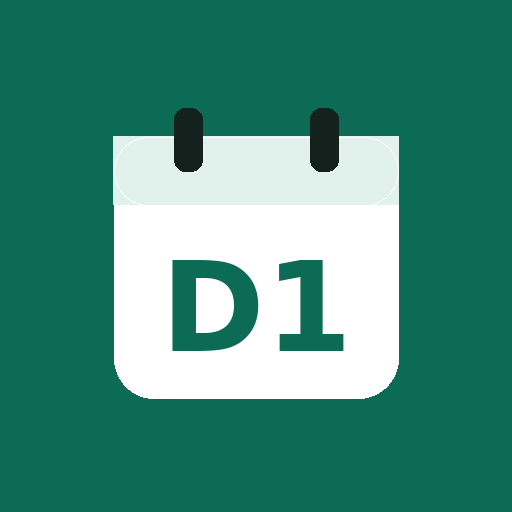
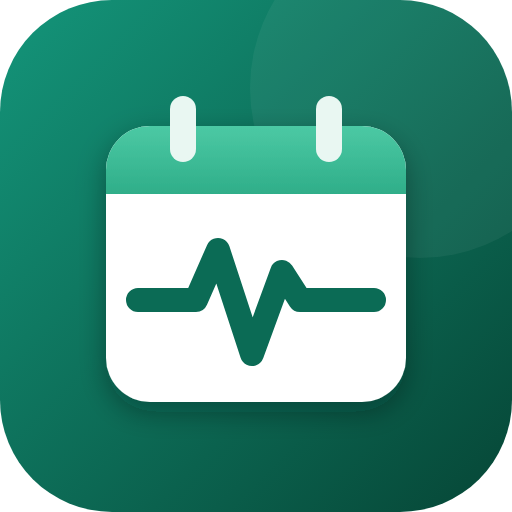
Harita varsayılan görünüm her açılışta, yeni ikon ve menü, kaynak (i) düğmesi kaldırıldı
- Harita sekmesi her açıldığında fotoğraftaki açı/uzaklığa döner (telefon, tablet, bilgisayar için yerleşkeye otomatik sığdırma)
- Dönemden bağımsız yeni ikon (takvim + nabız çizgisi), maskable ve SVG favicon; manifest adı genelleştirildi
- Menü: logolu başlık, öğrencinin dönemi, SVG simgeler, bölümler/araçlar, iletişim bağlantısı
- Üst başlığa logo; takvim dışa aktarımında dönem adı

Claude-Session: https://claude.ai/code/session_01L37E6WDiLPtmfnTNaGb7ty

diff --git a/index.html b/index.html
@@ -3,13 +3,14 @@
 <head>
 <meta charset="utf-8">
 <meta name="viewport" content="width=device-width, initial-scale=1">
-<title>Dönem 1 Programım</title>
+<title>Programım · İstanbul Tıp</title>
 <meta name="theme-color" content="#0b6b55">
 <meta name="apple-mobile-web-app-capable" content="yes">
 <meta name="apple-mobile-web-app-title" content="Programım">
 <link rel="manifest" href="manifest.json">
 <link rel="apple-touch-icon" href="icon-180.png">
-<link rel="icon" href="icon-180.png">
+<link rel="icon" href="icon.svg" type="image/svg+xml">
+<link rel="icon" href="icon-180.png" sizes="180x180" type="image/png">
 <link rel="preconnect" href="https://fonts.googleapis.com">
 <link rel="preconnect" href="https://fonts.gstatic.com" crossorigin>
 <link href="https://fonts.googleapis.com/css2?family=Bricolage+Grotesque:opsz,wght@12..96,600;12..96,700&family=IBM+Plex+Sans:wght@400;500;600&family=IBM+Plex+Mono:wght@500&family=Share+Tech+Mono&family=Doto:wght@800&display=swap" rel="stylesheet">
@@ -363,22 +364,39 @@ details.fold > summary:hover{background:color-mix(in srgb, currentColor 5%, tran
 /* ---------- header menu + drawer ---------- */
 .top{display:grid;grid-template-columns:1fr auto;align-items:start;gap:10px 12px}
 .top .chips{grid-column:1 / -1}
+.brand{display:flex;align-items:center;gap:11px}
+@media (min-width:1000px){body:not(.guest) .brand small{white-space:nowrap}}
+@media (min-width:700px) and (max-width:999px){body:not(.guest) .blogo{display:none}}
+.blogo{width:40px;height:40px;border-radius:11px;flex:none;box-shadow:0 3px 10px rgba(6,70,54,.22)}
+@media (max-width:360px){.blogo{width:34px;height:34px;border-radius:9px}}
 .menubtn{position:relative;width:46px;height:46px;border-radius:13px;border:1px solid var(--line);background:var(--surface);display:grid;place-items:center;color:var(--ink);flex:none}
 .menubtn:hover{border-color:var(--accent)}
 .menubtn[data-live="1"]::after{content:"";position:absolute;top:7px;right:7px;width:10px;height:10px;border-radius:50%;background:var(--accent);box-shadow:0 0 0 2px var(--surface)}
 .drawer-scrim{position:fixed;inset:0;background:rgba(5,15,12,.5);z-index:60;opacity:0;transition:opacity .2s}
 .drawer-scrim.show{opacity:1}
-.drawer{position:fixed;top:0;right:0;bottom:0;width:min(330px,88vw);background:var(--surface);border-left:1px solid var(--line);box-shadow:var(--shadow);z-index:61;transform:translateX(104%);visibility:hidden;transition:transform .25s ease,visibility .25s;display:flex;flex-direction:column;gap:6px;padding:max(16px,env(safe-area-inset-top)) 14px 16px}
+.drawer{position:fixed;top:0;right:0;bottom:0;width:min(330px,88vw);background:var(--surface);border-left:1px solid var(--line);box-shadow:var(--shadow);z-index:61;transform:translateX(104%);visibility:hidden;transition:transform .25s ease,visibility .25s;display:flex;flex-direction:column;gap:3px;overflow-y:auto;padding:max(14px,env(safe-area-inset-top)) 14px max(14px,env(safe-area-inset-bottom))}
 .drawer.open{transform:none;visibility:visible}
-.drawer .dh{display:flex;align-items:center;justify-content:space-between;margin-bottom:6px}
-.drawer .dh b{font-family:var(--display);font-size:19px}
-.drawer .di{display:flex;align-items:center;gap:12px;padding:12px;border-radius:13px;border:1px solid transparent;color:var(--ink);background:none;text-align:left;width:100%}
+.drawer .dh{display:flex;align-items:center;gap:12px;padding:4px 2px 14px;margin:0 -14px 4px;padding-inline:16px;border-bottom:1px solid var(--line)}
+.drawer .dlogo{width:42px;height:42px;border-radius:11px;flex:none;box-shadow:0 3px 10px rgba(6,70,54,.25)}
+.drawer .dname{flex:1;min-width:0}
+.drawer .dname b{display:block;font-family:var(--display);font-size:18px;line-height:1.15}
+.drawer .dname small{display:block;font-size:12px;color:var(--muted);font-weight:600;white-space:nowrap;overflow:hidden;text-overflow:ellipsis}
+.drawer .dh .x{flex:none}
+.drawer .dsec{margin:10px 6px 2px;font-size:11px;font-weight:700;letter-spacing:.08em;text-transform:uppercase;color:var(--muted)}
+.drawer .di{position:relative;display:flex;align-items:center;gap:12px;padding:10px 10px;border-radius:14px;border:1px solid transparent;color:var(--ink);background:none;text-align:left;width:100%;text-decoration:none;transition:background .15s}
 .drawer .di:hover{background:var(--bg)}
-.drawer .di .ic{font-size:24px;width:34px;text-align:center;flex:none}
-.drawer .di b{display:block;font-size:15.5px}
-.drawer .di small{display:block;color:var(--muted);font-size:12.5px;font-weight:500}
-.drawer .di[aria-current="page"]{background:var(--accent-soft);border-color:color-mix(in srgb,var(--accent) 35%,transparent)}
-.drawer .dfoot{margin-top:auto;font-size:12px;color:var(--muted);padding:8px 4px}
+.drawer .di:focus-visible{outline:2px solid var(--accent);outline-offset:1px}
+.drawer .di .ic{width:38px;height:38px;border-radius:11px;flex:none;display:grid;place-items:center;color:var(--c);background:color-mix(in srgb,var(--c) 14%,transparent)}
+.drawer .di .dt{flex:1;min-width:0}
+.drawer .di b{display:block;font-size:15px;line-height:1.25}
+.drawer .di small{display:block;color:var(--muted);font-size:12px;font-weight:500;line-height:1.35}
+.drawer .di .dch{flex:none;color:var(--muted);opacity:.7}
+.drawer .di[aria-current="page"]{background:var(--accent-soft)}
+.drawer .di[aria-current="page"]::before{content:"";position:absolute;left:-4px;top:12px;bottom:12px;width:4px;border-radius:4px;background:var(--accent)}
+.drawer .di[aria-current="page"] .dch{color:var(--accent);opacity:1}
+.drawer .dfoot{margin-top:auto;padding:12px 6px 0;border-top:1px solid var(--line);display:grid;gap:6px}
+.drawer .dfoot a{display:inline-flex;align-items:center;gap:8px;font-size:13px;font-weight:600;color:var(--accent);text-decoration:none}
+.drawer .dfoot small{font-size:11.5px;color:var(--muted)}
 @media (prefers-reduced-motion: reduce){.drawer,.drawer-scrim{transition:none}}
 
 /* ---------- route switching ---------- */
@@ -1172,7 +1190,7 @@ body.km-lock{overflow:hidden}
 .km-sheet li{display:flex;justify-content:space-between;gap:10px;font-size:13.5px;padding:6px 0;border-top:1px solid var(--line)}
 .km-sheet li small{flex:none;color:var(--muted);font-weight:600}
 .km-sheet li.hit{color:var(--accent);font-weight:600}
-#kmMap .maplibregl-ctrl-attrib{font-size:10.5px}
+
 body[data-route="hava"] #wxView{display:flex}
 body[data-route="hava"] #who{display:none !important}
 body[data-route="hava"] .wrap.wide{max-width:680px}
@@ -1270,9 +1288,9 @@ body.nt-staj #examBox,body.nt-staj #ntSet .nt-w,body.nt-staj #ntWMsg,body.nt-sta
 <div class="wrap" id="wrap">
 
   <header class="top">
-    <div class="brand">
-      <small id="brandSmall">İstanbul Tıp</small>
-      <h1 id="brandTitle">Programım</h1>
+    <div class="brand"><img class="blogo" src="icon.svg" width="40" height="40" alt="">
+      <div><small id="brandSmall">İstanbul Tıp</small>
+      <h1 id="brandTitle">Programım</h1></div>
     </div>
     <nav class="tabbar" id="tabbar" aria-label="Bölümler">
       <button type="button" data-go="program" aria-current="page"><svg width="20" height="20" viewBox="0 0 24 24" fill="none" stroke="currentColor" stroke-width="1.9" stroke-linecap="round" stroke-linejoin="round" aria-hidden="true"><rect x="3.5" y="5" width="17" height="15" rx="3"/><path d="M3.5 10h17M8 3v4M16 3v4"/></svg><span>Program</span></button>
@@ -1521,13 +1539,15 @@ body.nt-staj #examBox,body.nt-staj #ntSet .nt-w,body.nt-staj #ntWMsg,body.nt-sta
 
 <div class="drawer-scrim" id="drawerScrim" hidden></div>
 <nav class="drawer" id="drawer" aria-label="Ana menü" inert>
-  <div class="dh"><b>Menü</b><button class="x" id="drawerClose" type="button" aria-label="Menüyü kapat"><svg width="14" height="14" viewBox="0 0 14 14" aria-hidden="true"><path d="M2 2l10 10M12 2 2 12" stroke="currentColor" stroke-width="2" stroke-linecap="round"/></svg></button></div>
-  <button class="di" type="button" data-go="program" aria-current="page"><span class="ic" aria-hidden="true">📅</span><span><b>Ders programım</b><small>Günlük ve haftalık program</small></span></button>
-  <button class="di" type="button" data-go="notlar"><span class="ic" aria-hidden="true">🧮</span><span><b>Sınavlar ve notlar</b><small>Yaklaşan sınavlar, not hesaplama, AGNO</small></span></button>
-  <button class="di" type="button" data-go="hava"><span class="ic" aria-hidden="true">🌤</span><span><b>Hava durumu</b><small>Türkiye, il ve ilçe: saatlik, haftalık, 14 günlük</small></span></button>
-  <button class="di" type="button" data-go="harita"><span class="ic" aria-hidden="true">🗺</span><span><b>Yerleşke haritası</b><small>Çapa: binalar, amfiler ve salonlar (3B)</small></span></button>
-  <a class="di" href="https://ahmad2431385.github.io/studydoro/" style="text-decoration:none"><span class="ic" aria-hidden="true">⏱</span><span><b>Odak sayacı ↗</b><small>Studydoro: Pomodoro, grafik, sesler</small></span></a>
-  <div class="dfoot">Odak sayacı artık ayrı bir sitede: Studydoro. Çalışma kayıtların ve ayarların aynen orada.</div>
+  <div class="dh"><img class="dlogo" src="icon.svg" width="42" height="42" alt=""><span class="dname"><b>Programım</b><small id="drawerSub">İstanbul Tıp Fakültesi</small></span><button class="x" id="drawerClose" type="button" aria-label="Menüyü kapat"><svg width="14" height="14" viewBox="0 0 14 14" aria-hidden="true"><path d="M2 2l10 10M12 2 2 12" stroke="currentColor" stroke-width="2" stroke-linecap="round"/></svg></button></div>
+  <p class="dsec">Bölümler</p>
+  <button class="di" type="button" data-go="program" aria-current="page"><span class="ic" style="--c:#12936f"><svg width="20" height="20" viewBox="0 0 24 24" fill="none" stroke="currentColor" stroke-width="1.9" stroke-linecap="round" stroke-linejoin="round" aria-hidden="true"><rect x="3.5" y="5" width="17" height="15" rx="3"/><path d="M3.5 10h17M8 3v4M16 3v4"/></svg></span><span class="dt"><b>Ders programım</b><small>Günlük ve haftalık program</small></span><svg class="dch" width="16" height="16" viewBox="0 0 16 16" aria-hidden="true"><path d="m6 3.5 4.5 4.5L6 12.5" fill="none" stroke="currentColor" stroke-width="1.8" stroke-linecap="round" stroke-linejoin="round"/></svg></button>
+  <button class="di" type="button" data-go="notlar"><span class="ic" style="--c:#2f6fd0"><svg width="20" height="20" viewBox="0 0 24 24" fill="none" stroke="currentColor" stroke-width="1.9" stroke-linecap="round" stroke-linejoin="round" aria-hidden="true"><path d="M4 19V5M4 19h16M8 16v-5M12 16V8M16 16v-3"/></svg></span><span class="dt"><b>Sınavlar ve notlar</b><small>Yaklaşan sınavlar, not hesaplama, AGNO</small></span><svg class="dch" width="16" height="16" viewBox="0 0 16 16" aria-hidden="true"><path d="m6 3.5 4.5 4.5L6 12.5" fill="none" stroke="currentColor" stroke-width="1.8" stroke-linecap="round" stroke-linejoin="round"/></svg></button>
+  <button class="di" type="button" data-go="hava"><span class="ic" style="--c:#d49a1f"><svg width="20" height="20" viewBox="0 0 24 24" fill="none" stroke="currentColor" stroke-width="1.9" stroke-linecap="round" stroke-linejoin="round" aria-hidden="true"><circle cx="8" cy="8" r="3"/><path d="M8 2.5v1M2.5 8h1M4.1 4.1l.7.7M11.9 4.1l-.7.7"/><path d="M9.5 19.5h7.5a3.5 3.5 0 0 0 .4-7 5 5 0 0 0-9.6 1.3A3 3 0 0 0 9.5 19.5z"/></svg></span><span class="dt"><b>Hava durumu</b><small>Türkiye, il ve ilçe: saatlik, haftalık, 14 günlük</small></span><svg class="dch" width="16" height="16" viewBox="0 0 16 16" aria-hidden="true"><path d="m6 3.5 4.5 4.5L6 12.5" fill="none" stroke="currentColor" stroke-width="1.8" stroke-linecap="round" stroke-linejoin="round"/></svg></button>
+  <button class="di" type="button" data-go="harita"><span class="ic" style="--c:#8b5cc8"><svg width="20" height="20" viewBox="0 0 24 24" fill="none" stroke="currentColor" stroke-width="1.9" stroke-linecap="round" stroke-linejoin="round" aria-hidden="true"><path d="M9 4 3.5 6v14L9 18l6 2 5.5-2V4L15 6 9 4Z"/><path d="M9 4v14M15 6v14"/></svg></span><span class="dt"><b>Yerleşke haritası</b><small>Çapa: binalar, amfiler ve salonlar (3B)</small></span><svg class="dch" width="16" height="16" viewBox="0 0 16 16" aria-hidden="true"><path d="m6 3.5 4.5 4.5L6 12.5" fill="none" stroke="currentColor" stroke-width="1.8" stroke-linecap="round" stroke-linejoin="round"/></svg></button>
+  <p class="dsec">Araçlar</p>
+  <a class="di" href="https://ahmad2431385.github.io/studydoro/"><span class="ic" style="--c:#e2734a"><svg width="20" height="20" viewBox="0 0 24 24" fill="none" stroke="currentColor" stroke-width="1.9" stroke-linecap="round" stroke-linejoin="round" aria-hidden="true"><circle cx="12" cy="13.5" r="7"/><path d="M12 10v3.5l2.3 1.6M9.5 3.5h5"/></svg></span><span class="dt"><b>Odak sayacı</b><small>Studydoro: Pomodoro, grafik, sesler · ayrı sitede</small></span><svg class="dch" width="16" height="16" viewBox="0 0 16 16" aria-hidden="true"><path d="M6.5 3.5H3.5v9h9v-3M9 2.5h4.5V7M13.5 2.5 7.5 8.5" fill="none" stroke="currentColor" stroke-width="1.6" stroke-linecap="round" stroke-linejoin="round"/></svg></a>
+  <div class="dfoot"><a href="#contact" id="drawerContact"><svg width="16" height="16" viewBox="0 0 24 24" fill="none" stroke="currentColor" stroke-width="1.9" stroke-linecap="round" stroke-linejoin="round" aria-hidden="true"><path d="M4 6h16v12H4z"/><path d="m4 7 8 6 8-6"/></svg><span>Hata bildir · öneride bulun</span></a></div>
 </nav>
 
 <div class="scrim" id="scrim" hidden>
@@ -1970,7 +1990,7 @@ function fold(line){ const out=[]; let s=line; while (s.length > 74){ out.push(s
 function buildIcs(items){
   const z = (d,t) => { const [h,m] = t.split(":").map(Number); return new Date(Date.UTC(+d.slice(0,4), +d.slice(5,7)-1, +d.slice(8,10), h-3, m)).toISOString().replace(/[-:]/g,"").slice(0,15)+"Z"; };
   const stamp = new Date().toISOString().replace(/[-:]/g,"").slice(0,15)+"Z";
-  const L = ["BEGIN:VCALENDAR","VERSION:2.0","PRODID:-//Donem1 Programim//TR","CALSCALE:GREGORIAN","METHOD:PUBLISH","X-WR-CALNAME:Dönem 1 Programım","X-WR-TIMEZONE:Europe/Istanbul"];
+  const L = ["BEGIN:VCALENDAR","VERSION:2.0","PRODID:-//Programim Istanbul Tip//TR","CALSCALE:GREGORIAN","METHOD:PUBLISH","X-WR-CALNAME:Dönem " + (window.PROG_DONEM || 1) + " Programım","X-WR-TIMEZONE:Europe/Istanbul"];
   for (const x of items){
     if (!x.s || !x.e) continue;
     const uid = (x.date + x.s + x.title).replace(/[^\wçğıöşüÇĞİÖŞÜ]/g,"").slice(0,60) + "@donem1";
@@ -3270,7 +3290,7 @@ try { $("kmLeg").open = localStorage.getItem("kampus_leg") !== "0" && innerWidth
 const trU = t => String(t).toLocaleUpperCase("tr").replace(/İ/g, "I").replace(/\s+/g, " ").trim();
 const norm = t => String(t).toLocaleLowerCase("tr").normalize("NFC").replace(/ı/g, "i").replace(/[^a-zçğiöşü0-9]/g, "");
 const katTxt = k => !k ? "" : k === "Z" ? "Zemin kat" : /^-/.test(k) ? `${k}. kat (bodrum)` : `${k}. kat`;
-let D = null, B = {}, NAMES = [], map = null, HOME = null, cur = null, raf = 0, started = false, pending = null;
+let ready = false, D = null, B = {}, NAMES = [], map = null, HOME = null, cur = null, raf = 0, started = false, pending = null;
 const LBL = [];
 const active = () => document.body.dataset.route === "harita";
 // harita kutusu ekranın kalanını doldurur (telefonda alttaki sekmelerin üstünde biter)
@@ -3296,11 +3316,11 @@ async function start(){
 }
 function build(){
   const ring = D.kampus, cx = ring.reduce((a,p) => a + p[0], 0) / ring.length, cy = ring.reduce((a,p) => a + p[1], 0) / ring.length;
-  HOME = {center:[cx, cy], zoom:17.2, pitch:58, bearing:-35};
+  HOME = {center:[cx, cy], zoom:16, pitch:55, bearing:-3};
   map = new maplibregl.Map({
-    container:"kmMap", ...HOME, maxPitch:75, minZoom:15, attributionControl:{compact:true}, cooperativeGestures:false,
+    container:"kmMap", ...HOME, maxPitch:75, minZoom:14, attributionControl:false, cooperativeGestures:false,
     style:{version:8, sources:{osm:{type:"raster", tiles:["https://tile.openstreetmap.org/{z}/{x}/{y}.png"], tileSize:256, maxzoom:19,
-      attribution:'© <a href="https://www.openstreetmap.org/copyright" target="_blank" rel="noopener">OpenStreetMap katkıcıları</a> · İTF krokisi'}},
+}},
       layers:[{id:"bg", type:"background", paint:{"background-color":css("--bg")}}, {id:"osm", type:"raster", source:"osm", paint:{"raster-opacity":.8, "raster-saturation":-.7}}]}
   });
   map.addControl(new maplibregl.NavigationControl({visualizePitch:true}), "bottom-left");
@@ -3328,8 +3348,25 @@ function build(){
     map.on("mouseenter", "b-3d", () => map.getCanvas().style.cursor = "pointer");
     map.on("mouseleave", "b-3d", () => map.getCanvas().style.cursor = "");
     map.on("move", declutter); map.on("resize", declutter); declutter();
+    ready = true; reset();
     if (pending){ const r = search(pending)[0]; pending = null; if (r) pick(r); }
   });
+}
+// varsayılan görünüm: kuzey yukarıda, eğik bakış, yerleşkenin tamamı ekrana sığar (telefon, tablet, bilgisayar)
+// Harita sekmesi her açıldığında bu görünüme döner; kullanıcının döndürmesi/yakınlaştırması saklanmaz.
+function homeCam(){
+  const r = D.kampus, xs = r.map(p => p[0]), ys = r.map(p => p[1]);
+  const el = $("kmMap"), w = el.clientWidth, h = el.clientHeight;
+  const pad = {top:Math.round(h * .06), bottom:Math.round(h * .14) + 40, left:Math.round(w * .04), right:Math.round(w * .04) + 50};
+  const c = map.cameraForBounds([[Math.min(...xs), Math.min(...ys)], [Math.max(...xs), Math.max(...ys)]], {bearing:HOME.bearing, padding:pad});
+  return c ? {center:c.center, zoom:Math.min(17.5, c.zoom + (w < 520 ? .7 : .25)), bearing:HOME.bearing, pitch:HOME.pitch} : HOME;
+}
+function reset(){
+  if (!ready) return;
+  select(null);
+  $("kmB3d").setAttribute("aria-pressed", "true"); $("kmB3d").textContent = "3B";
+  map.setPaintProperty("b-3d", "fill-extrusion-height", ["get", "h"]);
+  map.resize(); map.jumpTo(homeCam()); declutter();
 }
 function declutter(){
   if (raf || !map) return;
@@ -3391,8 +3428,8 @@ $("kmQ").addEventListener("input", () => {
 $("kmQ").addEventListener("keydown", e => { if (e.key === "Enter" && map){ const r = search($("kmQ").value)[0]; if (r){ pick(r); $("kmQ").blur(); } } if (e.key === "Escape") $("kmSugg").classList.remove("on"); });
 document.addEventListener("click", e => { if (!e.target.closest(".km-srch")) $("kmSugg").classList.remove("on"); });
 $("kmB3d").onclick = () => { if (!map) return; const on = $("kmB3d").getAttribute("aria-pressed") !== "true"; $("kmB3d").setAttribute("aria-pressed", on); $("kmB3d").textContent = on ? "3B" : "2B";
-  map.setPaintProperty("b-3d", "fill-extrusion-height", on ? ["get", "h"] : 0.5); map.easeTo({pitch:on ? 58 : 0, duration:600}); };
-$("kmHome").onclick = () => { if (map) map.flyTo({...HOME, pitch:$("kmB3d").getAttribute("aria-pressed") === "true" ? 58 : 0}); };
+  map.setPaintProperty("b-3d", "fill-extrusion-height", on ? ["get", "h"] : 0.5); map.easeTo({pitch:on ? HOME.pitch : 0, duration:600}); };
+$("kmHome").onclick = () => { if (map) map.flyTo({...homeCam(), pitch:$("kmB3d").getAttribute("aria-pressed") === "true" ? HOME.pitch : 0}); };
 // büyüt / küçült (sayaçtaki gibi): önce gerçek tam ekran, olmazsa ekranı kaplayan görünüm
 const W = $("kmWrap"), fsEl = () => document.fullscreenElement || document.webkitFullscreenElement;
 const isBig = () => fsEl() === W || W.classList.contains("km-big");
@@ -3419,8 +3456,9 @@ document.addEventListener("keydown", e => { if (e.key === "Escape" && isBig()) s
 // başka bölüme geçilince büyütme kapanır
 new MutationObserver(() => { if (!active() && isBig()) setBig(false); }).observe(document.body, {attributes:true, attributeFilter:["data-route"]});
 // başka bölümlerden çağrılabilir: salonu haritada göster (ör. programdaki "Sami Zan Amfisi")
-window.kampusBul = q => { if (map && map.loaded()){ const r = search(q)[0]; if (r) pick(r); } else pending = q; };
-const ensure = () => { if (active()){ start(); requestAnimationFrame(fit); } };
+window.kampusBul = q => { if (ready){ const r = search(q)[0]; if (r) pick(r); } else pending = q; };
+let was = false;
+const ensure = () => { const a = active(), fresh = a && !was; was = a; if (a){ start(); requestAnimationFrame(() => { fit(); if (fresh) reset(); }); } };
 new MutationObserver(ensure).observe(document.body, {attributes:true, attributeFilter:["data-route"]});
 addEventListener("resize", () => requestAnimationFrame(fit));
 ensure();
@@ -3455,6 +3493,7 @@ window.addEventListener("hashchange", routeFromHash);
 new MutationObserver(routeFromHash).observe(document.body, {attributes:true, attributeFilter:["class"]});
 routeFromHash();
 function openDrawer(){
+  $("drawerSub").textContent = (!guest() && brandS.dataset.prog) || "İstanbul Tıp Fakültesi";
   scrim.hidden = false; requestAnimationFrame(() => scrim.classList.add("show"));
   drawer.classList.add("open"); drawer.removeAttribute("inert"); menuBtn.setAttribute("aria-expanded", "true");
   setTimeout(() => { const c = drawer.querySelector('[aria-current="page"]') || drawer.querySelector(".di"); if (c) c.focus(); }, 60);
@@ -3467,6 +3506,7 @@ function closeDrawer(focusBack){
 menuBtn.addEventListener("click", () => drawer.classList.contains("open") ? closeDrawer(true) : openDrawer());
 scrim.addEventListener("click", () => closeDrawer(true));
 $("drawerClose").addEventListener("click", () => closeDrawer(true));
+$("drawerContact").addEventListener("click", e => { e.preventDefault(); closeDrawer(false); const c = $("contact"); if (c && c.offsetParent) c.scrollIntoView({behavior:"smooth", block:"start"}); });
 document.addEventListener("keydown", e => { if (e.key === "Escape" && drawer.classList.contains("open")) closeDrawer(true); });
 const onGo = e => {
   const b = e.target.closest("[data-go]"); if (!b) return;
